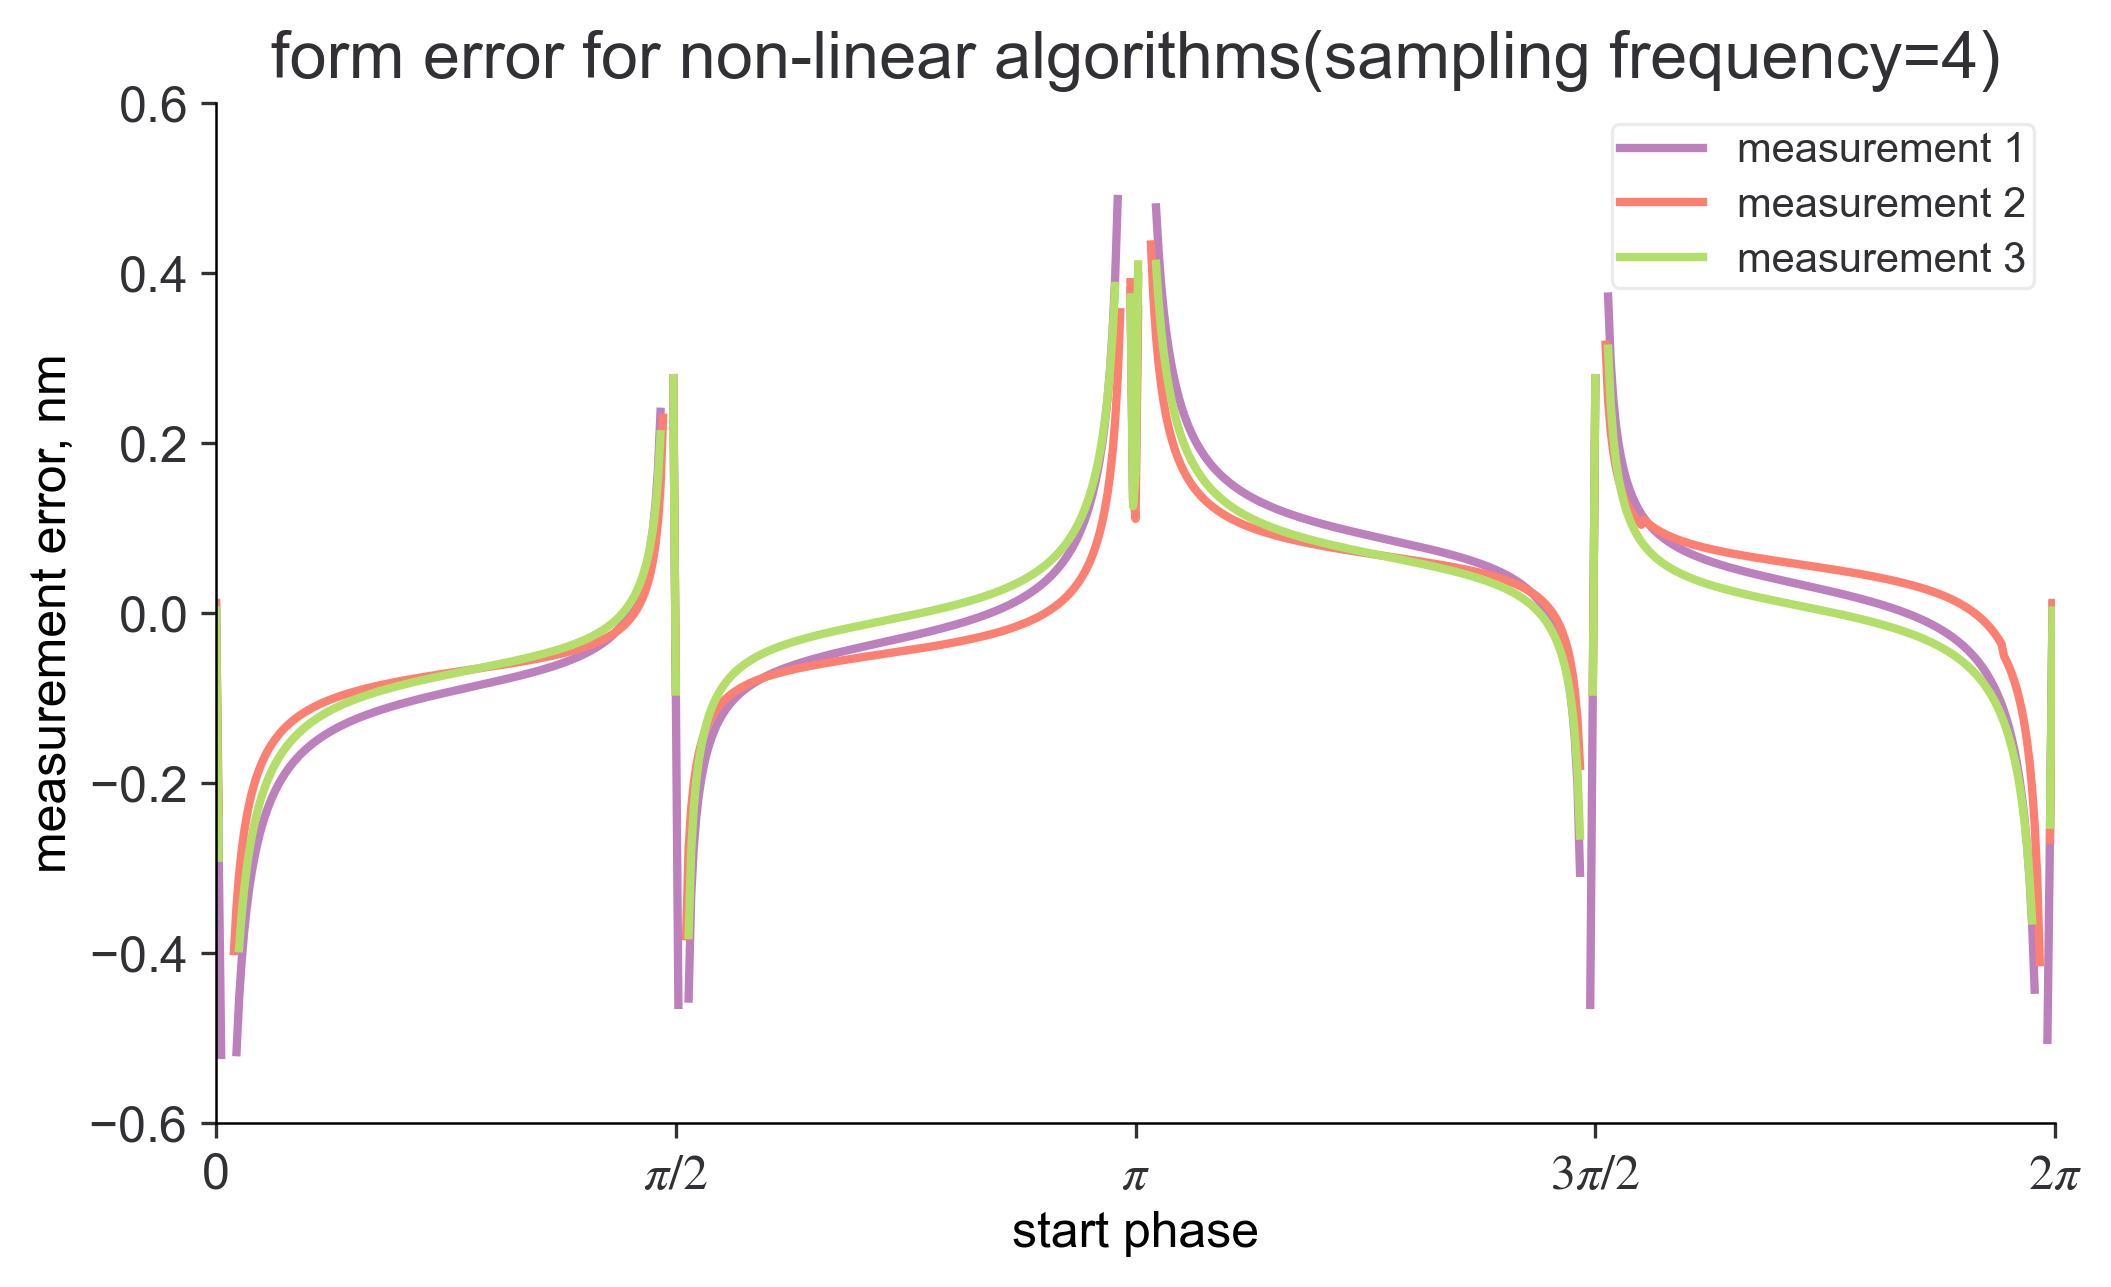
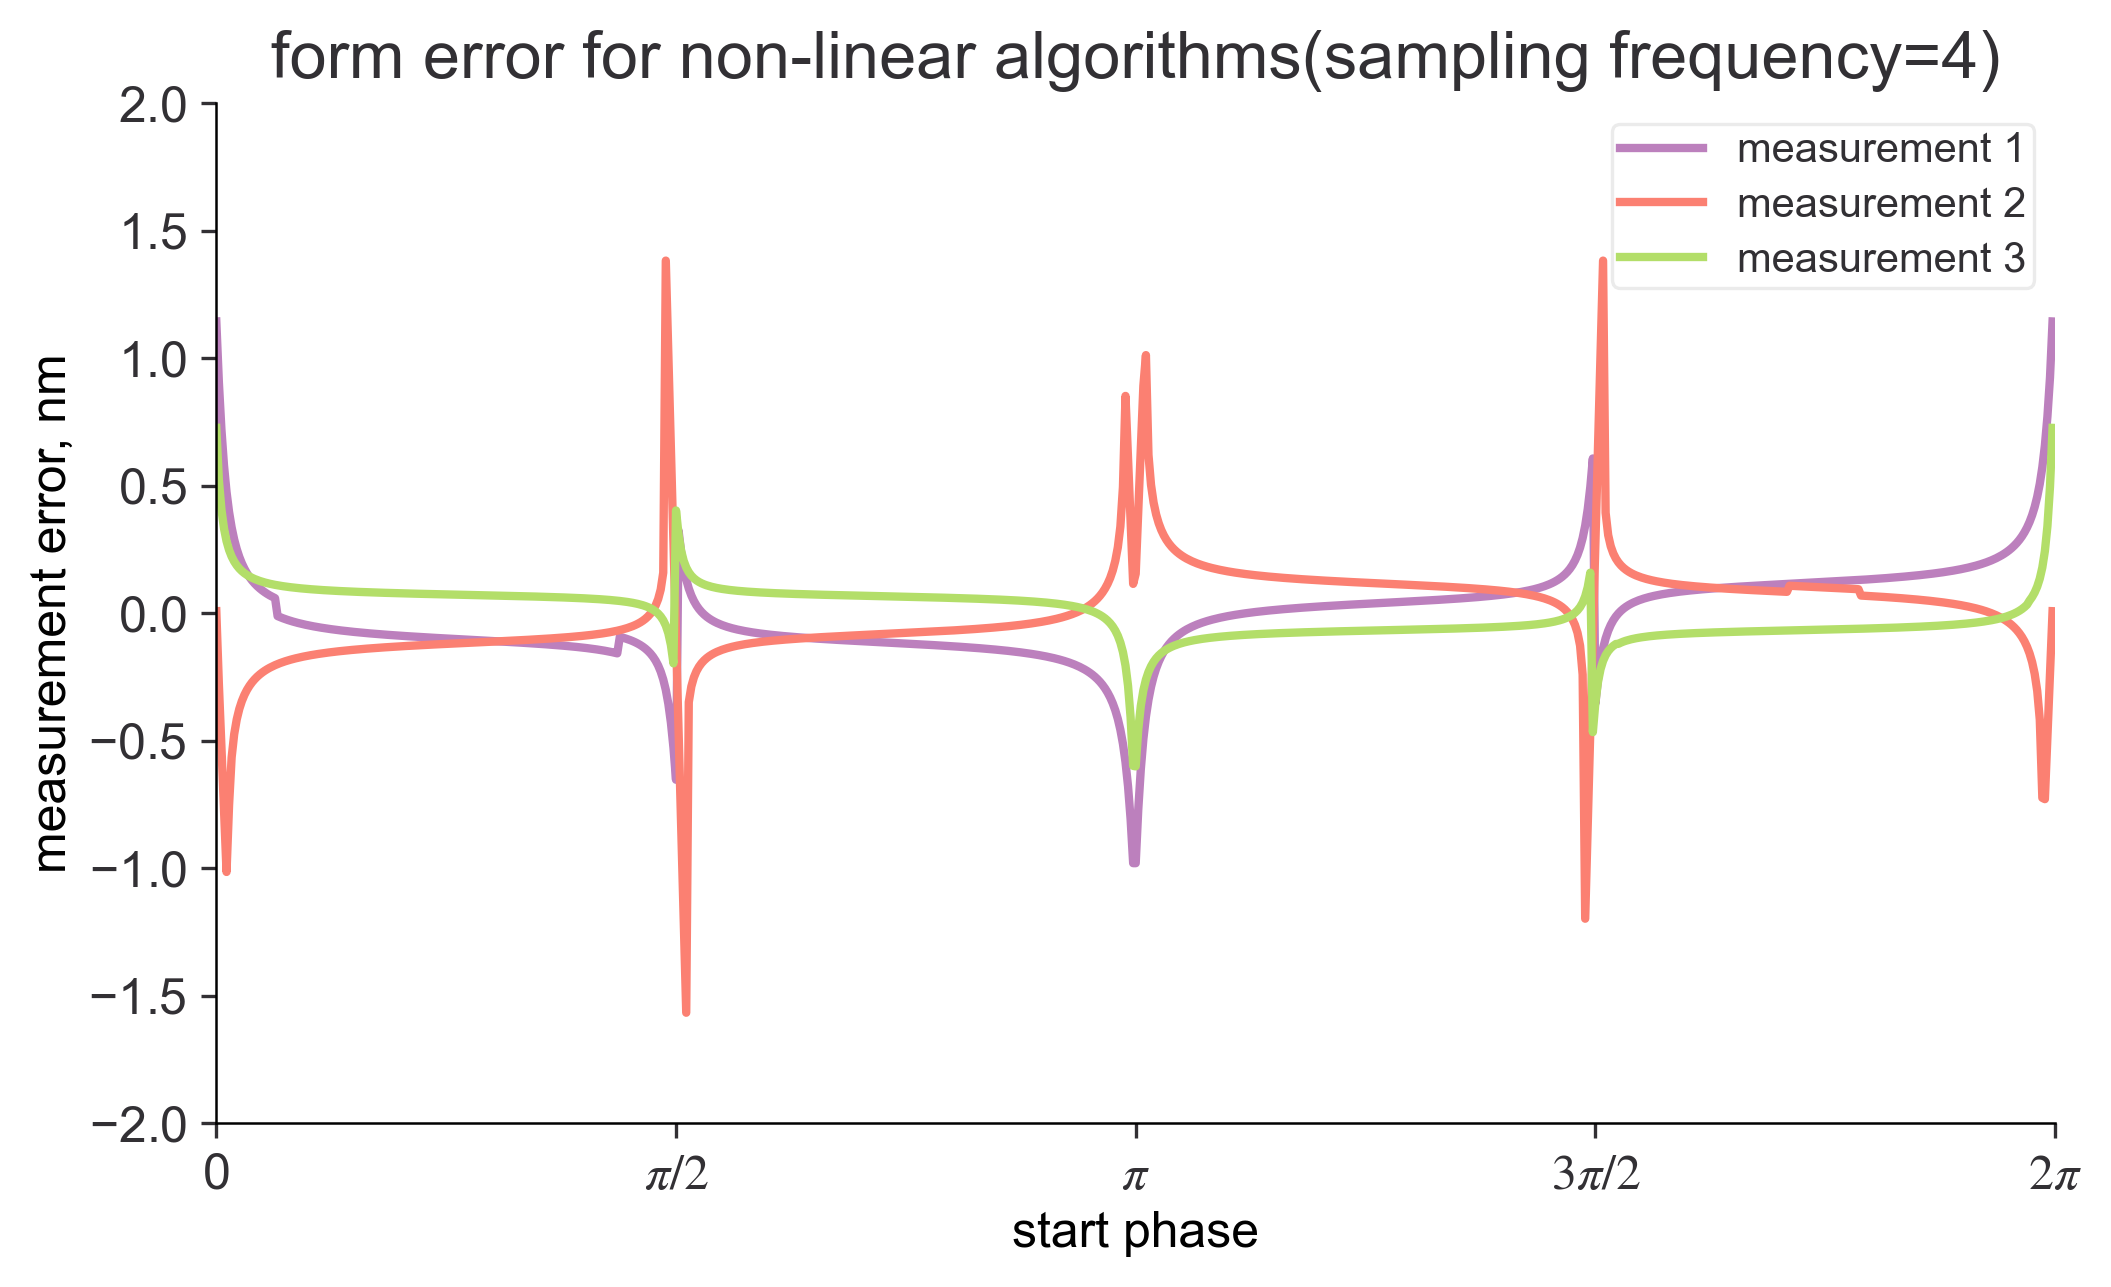
function of PSI

diff --git a/PSI_algorithms/N_Step.py b/PSI_algorithms/N_Step.py
@@ -17,8 +17,18 @@ def gauss_random(mu):
 # %%
 # get the std of positioning noise
 def n_step_single_line(step=3, phase=(0, 2 * np.pi), point_number=720, loop=100000, mu_phase=0.1 * np.pi / 180,
-                       wx1: float = .0, a=0, b=1, lamda=530):
+                       wx1: float = .0, a=0, b=1, lamda=530, shot_noise=False, position_noise=True):
     print('the current step:', step)
+    if shot_noise is True:
+        mu_intensity = 0.001
+    else:
+        mu_intensity = 0
+
+    if position_noise is False:
+        mu_phase = 0
+    else:
+        mu_phase = mu_phase
+
     N = step
     factor = lamda / (4 * np.pi)
     get_value = np.zeros([loop, point_number])
@@ -31,8 +41,8 @@ def n_step_single_line(step=3, phase=(0, 2 * np.pi), point_number=720, loop=1000
         for n in np.arange(1, N + 1, 1):
             wXn = 2 * np.pi * (n - 1) / N + wx1
             noise = gauss_random(mu_phase)
-            upper += (a + b * np.cos(wXn + phase_interval + noise)) * np.sin(wXn)
-            lower += (a + b * np.cos(wXn + phase_interval + noise)) * np.cos(wXn)
+            upper += (a + b * np.cos(wXn + phase_interval + noise) + gauss_random(mu_intensity)) * np.sin(wXn)
+            lower += (a + b * np.cos(wXn + phase_interval + noise) + gauss_random(mu_intensity)) * np.cos(wXn)
 
         get_value[loo_p] = np.arctan(-(upper / lower))
 
@@ -54,4 +64,3 @@ def n_Step_theoretical_std(step=3, phase=(0, 2 * np.pi), point_number=720, lamda
     std = np.sqrt(A) * mu_phase * factor
     # return theoretical standard deviation
     return std
-
